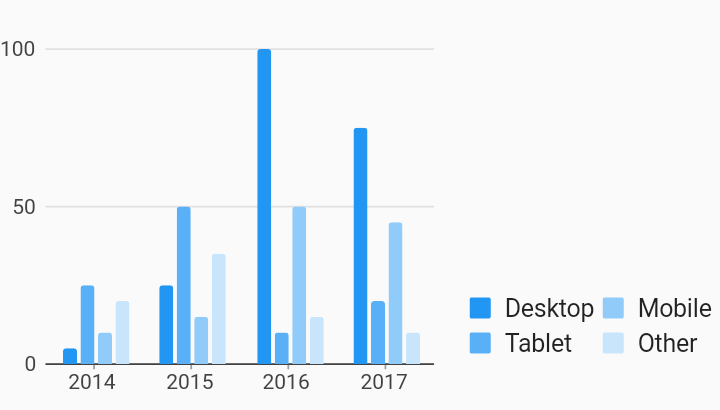
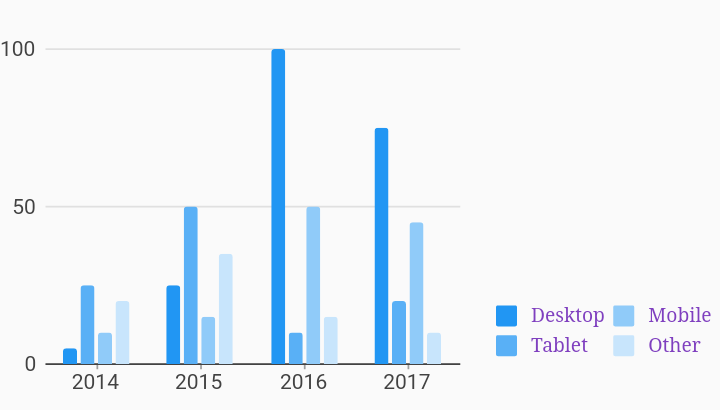
Add support for configurable legend entry text styles. Inspired by https://github.com/google/charts/pull/126
PiperOrigin-RevId: 216402421

Changed region(s): [[0.2139, 0.1171, 0.6417, 0.9659], [0.6417, 0.7024, 1.0, 0.878], [0.0917, 0.9073, 0.1833, 0.9659]]

diff --git a/charts_flutter/lib/src/behaviors/legend/series_legend.dart b/charts_flutter/lib/src/behaviors/legend/series_legend.dart
@@ -23,7 +23,8 @@ import 'package:charts_common/common.dart' as common
         LegendDefaultMeasure,
         OutsideJustification,
         SeriesLegend,
-        SelectionModelType;
+        SelectionModelType,
+        TextStyleSpec;
 import 'package:collection/collection.dart' show ListEquality;
 import 'package:flutter/widgets.dart'
     show BuildContext, EdgeInsets, Widget, hashValues;
@@ -82,6 +83,9 @@ class SeriesLegend extends ChartBehavior<common.SeriesLegend> {
   /// legend and the series uses the secondary axis.
   final common.MeasureFormatter secondaryMeasureFormatter;
 
+  /// Styles for legend entry label text.
+  final common.TextStyleSpec entryTextStyle;
+
   static const defaultCellPadding = const EdgeInsets.all(8.0);
 
   final List<String> defaultHiddenSeries;
@@ -139,6 +143,7 @@ class SeriesLegend extends ChartBehavior<common.SeriesLegend> {
     common.LegendDefaultMeasure legendDefaultMeasure,
     common.MeasureFormatter measureFormatter,
     common.MeasureFormatter secondaryMeasureFormatter,
+    common.TextStyleSpec entryTextStyle,
   }) {
     // Set defaults if empty.
     position ??= defaultBehaviorPosition;
@@ -169,7 +174,8 @@ class SeriesLegend extends ChartBehavior<common.SeriesLegend> {
         legendDefaultMeasure:
             legendDefaultMeasure ?? common.LegendDefaultMeasure.none,
         measureFormatter: measureFormatter,
-        secondaryMeasureFormatter: secondaryMeasureFormatter);
+        secondaryMeasureFormatter: secondaryMeasureFormatter,
+        entryTextStyle: entryTextStyle);
   }
 
   /// Create a legend with custom layout.
@@ -212,6 +218,7 @@ class SeriesLegend extends ChartBehavior<common.SeriesLegend> {
     common.LegendDefaultMeasure legendDefaultMeasure,
     common.MeasureFormatter measureFormatter,
     common.MeasureFormatter secondaryMeasureFormatter,
+    common.TextStyleSpec entryTextStyle,
   }) {
     // Set defaults if empty.
     position ??= defaultBehaviorPosition;
@@ -230,6 +237,7 @@ class SeriesLegend extends ChartBehavior<common.SeriesLegend> {
           legendDefaultMeasure ?? common.LegendDefaultMeasure.none,
       measureFormatter: measureFormatter,
       secondaryMeasureFormatter: secondaryMeasureFormatter,
+      entryTextStyle: entryTextStyle,
     );
   }
 
@@ -244,6 +252,7 @@ class SeriesLegend extends ChartBehavior<common.SeriesLegend> {
     this.legendDefaultMeasure,
     this.measureFormatter,
     this.secondaryMeasureFormatter,
+    this.entryTextStyle,
   });
 
   @override
@@ -270,7 +279,8 @@ class SeriesLegend extends ChartBehavior<common.SeriesLegend> {
         showMeasures == o.showMeasures &&
         legendDefaultMeasure == o.legendDefaultMeasure &&
         measureFormatter == o.measureFormatter &&
-        secondaryMeasureFormatter == o.secondaryMeasureFormatter;
+        secondaryMeasureFormatter == o.secondaryMeasureFormatter &&
+        entryTextStyle == o.entryTextStyle;
   }
 
   @override
@@ -285,7 +295,8 @@ class SeriesLegend extends ChartBehavior<common.SeriesLegend> {
         showMeasures,
         legendDefaultMeasure,
         measureFormatter,
-        secondaryMeasureFormatter);
+        secondaryMeasureFormatter,
+        entryTextStyle);
   }
 }
 
@@ -302,6 +313,7 @@ class _FlutterSeriesLegend<D> extends common.SeriesLegend<D>
           legendDefaultMeasure: config.legendDefaultMeasure,
         ) {
     super.defaultHiddenSeries = config.defaultHiddenSeries;
+    super.entryTextStyle = config.entryTextStyle;
   }
 
   @override

diff --git a/charts_flutter/lib/src/behaviors/legend/legend_entry_layout.dart b/charts_flutter/lib/src/behaviors/legend/legend_entry_layout.dart
@@ -14,6 +14,7 @@
 // limitations under the License.
 
 import 'package:charts_common/common.dart' as common;
+import 'package:charts_flutter/src/util/color.dart';
 import 'package:flutter/widgets.dart';
 import 'package:flutter/material.dart'
     show GestureDetector, GestureTapUpCallback, TapUpDetails, Theme;
@@ -42,8 +43,7 @@ class SimpleLegendEntryLayout implements LegendEntryLayout {
     final materialSymbolSize = new Size(12.0, 12.0);
 
     final entryColor = legendEntry.color;
-    var color = new Color.fromARGB(
-        entryColor.a, entryColor.r, entryColor.g, entryColor.b);
+    var color = ColorUtil.toDartColor(entryColor);
 
     // Get the SymbolRendererBuilder wrapping a common.SymbolRenderer if needed.
     final SymbolRendererBuilder symbolRendererBuilder =
@@ -63,7 +63,8 @@ class SimpleLegendEntryLayout implements LegendEntryLayout {
 
   Widget createLabel(BuildContext context, common.LegendEntry legendEntry,
       TappableLegend legend, bool isHidden) {
-    final TextStyle style = isHidden ? _getHiddenTextStyle(context) : null;
+    TextStyle style =
+        _convertTextStyle(isHidden, context, legendEntry.textStyle);
 
     return new GestureDetector(
         child: new Text(legendEntry.label, style: style),
@@ -117,14 +118,27 @@ class SimpleLegendEntryLayout implements LegendEntryLayout {
     return this.runtimeType.hashCode;
   }
 
-  /// Get style that is 26% opaque if the entry is hidden.
+  /// Convert the charts common TextStlyeSpec into a standard TextStyle, while
+  /// reducing the color opacity to 26% if the entry is hidden.
   ///
-  /// Use the color from the body 1 theme, but create a new style that only
-  /// specifies a color. This should keep anything else that this [Text] is
-  /// inheriting intact.
-  TextStyle _getHiddenTextStyle(BuildContext context) {
-    final body1 = Theme.of(context).textTheme.body1;
-    final color = body1.color.withOpacity(0.26);
-    return new TextStyle(inherit: true, color: color);
+  /// For non-specified values, override the hidden text color to use the body 1
+  /// theme, but allow other properties of [Text] to be inherited.
+  TextStyle _convertTextStyle(
+      bool isHidden, BuildContext context, common.TextStyleSpec textStyle) {
+    Color color = textStyle?.color != null
+        ? ColorUtil.toDartColor(textStyle.color)
+        : null;
+    if (isHidden) {
+      // Use a default color for hidden legend entries if none is provided.
+      color ??= Theme.of(context).textTheme.body1.color;
+      color = color.withOpacity(0.26);
+    }
+
+    return new TextStyle(
+        inherit: true,
+        fontFamily: textStyle?.fontFamily,
+        fontSize:
+            textStyle?.fontSize != null ? textStyle.fontSize.toDouble() : null,
+        color: color);
   }
 }

diff --git a/charts_common/lib/src/chart/common/behavior/legend/per_series_legend_entry_generator.dart b/charts_common/lib/src/chart/common/behavior/legend/per_series_legend_entry_generator.dart
@@ -18,6 +18,7 @@ import 'legend_entry.dart';
 import 'legend_entry_generator.dart';
 import '../../selection_model/selection_model.dart';
 import '../../../cartesian/axis/axis.dart' show Axis, measureAxisIdKey;
+import '../../../cartesian/axis/spec/axis_spec.dart' show TextStyleSpec;
 import '../../datum_details.dart' show MeasureFormatter;
 import '../../processed_series.dart' show MutableSeries;
 import '../../series_datum.dart' show SeriesDatum;
@@ -27,6 +28,7 @@ import '../../series_datum.dart' show SeriesDatum;
 /// [T] the datum class type for chart.
 /// [D] the domain class type for the datum.
 class PerSeriesLegendEntryGenerator<D> implements LegendEntryGenerator<D> {
+  TextStyleSpec entryTextStyle;
   MeasureFormatter measureFormatter;
   MeasureFormatter secondaryMeasureFormatter;
 
@@ -37,7 +39,7 @@ class PerSeriesLegendEntryGenerator<D> implements LegendEntryGenerator<D> {
   List<LegendEntry<D>> getLegendEntries(List<MutableSeries<D>> seriesList) {
     final legendEntries = seriesList
         .map((series) => new LegendEntry<D>(series, series.displayName,
-            color: series.colorFn(0)))
+            color: series.colorFn(0), textStyle: entryTextStyle))
         .toList();
 
     // Update with measures only if showing measure on no selection.
@@ -173,7 +175,8 @@ class PerSeriesLegendEntryGenerator<D> implements LegendEntryGenerator<D> {
     return o is PerSeriesLegendEntryGenerator &&
         measureFormatter == o.measureFormatter &&
         secondaryMeasureFormatter == o.secondaryMeasureFormatter &&
-        legendDefaultMeasure == o.legendDefaultMeasure;
+        legendDefaultMeasure == o.legendDefaultMeasure &&
+        entryTextStyle == o.entryTextStyle;
   }
 
   @override
@@ -181,6 +184,7 @@ class PerSeriesLegendEntryGenerator<D> implements LegendEntryGenerator<D> {
     int hashcode = measureFormatter?.hashCode ?? 0;
     hashcode = (hashcode * 37) + secondaryMeasureFormatter.hashCode;
     hashcode = (hashcode * 37) + legendDefaultMeasure.hashCode;
+    hashcode = (hashcode * 37) + entryTextStyle.hashCode;
     return hashcode;
   }
 }

diff --git a/charts_common/lib/src/chart/common/behavior/legend/legend.dart b/charts_common/lib/src/chart/common/behavior/legend/legend.dart
@@ -70,7 +70,6 @@ abstract class Legend<D> implements ChartBehavior<D>, LayoutView {
   LegendCellPadding _cellPadding;
   LegendCellPadding _legendPadding;
 
-  TextStyleSpec _entryTextStyle;
   TextStyleSpec _titleTextStyle;
 
   LegendTapHandling _legendTapHandling = LegendTapHandling.hide;
@@ -85,9 +84,10 @@ abstract class Legend<D> implements ChartBehavior<D>, LayoutView {
     return (value == null) ? '' : _decimalPattern.format(value);
   }
 
-  Legend({this.selectionModelType, this.legendEntryGenerator}) {
+  Legend({this.selectionModelType, this.legendEntryGenerator, entryTextStyle}) {
     _lifecycleListener = new LifecycleListener(
         onPostprocess: _postProcess, onPreprocess: _preProcess, onData: onData);
+    legendEntryGenerator.entryTextStyle = entryTextStyle;
   }
 
   String get title => _title;
@@ -130,10 +130,10 @@ abstract class Legend<D> implements ChartBehavior<D>, LayoutView {
   LegendTapHandling get legendTapHandling => _legendTapHandling;
 
   /// Text style of the legend entry text.
-  TextStyleSpec get entryTextStyle => _entryTextStyle;
+  TextStyleSpec get entryTextStyle => legendEntryGenerator.entryTextStyle;
 
   set entryTextStyle(TextStyleSpec entryTextStyle) {
-    _entryTextStyle = entryTextStyle;
+    legendEntryGenerator.entryTextStyle = entryTextStyle;
   }
 
   /// Text style of the legend title text.

diff --git a/charts_flutter/example/lib/legends/legend_options.dart b/charts_flutter/example/lib/legends/legend_options.dart
@@ -14,10 +14,10 @@
 // limitations under the License.
 
 /// Bar chart with example of a legend with customized position, justification,
-/// desired max rows, and padding. These options are shown as an example of how
-/// to use the customizations, they do not necessary have to be used together in
-/// this way. Choosing [end] as the position does not require the justification
-/// to also be [endDrawArea].
+/// desired max rows, padding, and entry text styles. These options are shown as
+/// an example of how to use the customizations, they do not necessary have to
+/// be used together in this way. Choosing [end] as the position does not
+/// require the justification to also be [endDrawArea].
 // EXCLUDE_FROM_GALLERY_DOCS_START
 import 'dart:math';
 // EXCLUDE_FROM_GALLERY_DOCS_END
@@ -137,6 +137,11 @@ class LegendOptions extends StatelessWidget {
           desiredMaxRows: 2,
           // This defines the padding around each legend entry.
           cellPadding: new EdgeInsets.only(right: 4.0, bottom: 4.0),
+          // Render the legend entry text with custom styles.
+          entryTextStyle: charts.TextStyleSpec(
+              color: charts.MaterialPalette.purple.shadeDefault,
+              fontFamily: 'Georgia',
+              fontSize: 11),
         )
       ],
     );

diff --git a/charts_common/lib/src/chart/common/behavior/legend/series_legend.dart b/charts_common/lib/src/chart/common/behavior/legend/series_legend.dart
@@ -15,6 +15,7 @@
 
 import 'package:meta/meta.dart' show protected;
 
+import '../../../cartesian/axis/spec/axis_spec.dart' show TextStyleSpec;
 import '../../datum_details.dart' show MeasureFormatter;
 import '../../processed_series.dart' show MutableSeries;
 import '../../selection_model/selection_model.dart' show SelectionModelType;
@@ -45,11 +46,12 @@ class SeriesLegend<D> extends Legend<D> {
     MeasureFormatter secondaryMeasureFormatter,
     bool showMeasures,
     LegendDefaultMeasure legendDefaultMeasure,
+    TextStyleSpec entryTextStyle,
   }) : super(
-          selectionModelType: selectionModelType ?? SelectionModelType.info,
-          legendEntryGenerator:
-              legendEntryGenerator ?? new PerSeriesLegendEntryGenerator(),
-        ) {
+            selectionModelType: selectionModelType ?? SelectionModelType.info,
+            legendEntryGenerator:
+                legendEntryGenerator ?? new PerSeriesLegendEntryGenerator(),
+            entryTextStyle: entryTextStyle) {
     // Call the setters that include the setting for default.
     this.showMeasures = showMeasures;
     this.legendDefaultMeasure = legendDefaultMeasure;

diff --git a/charts_flutter/lib/src/util/color.dart b/charts_flutter/lib/src/util/color.dart
@@ -1,0 +1,28 @@
+// Copyright 2018 the Charts project authors. Please see the AUTHORS file
+// for details.
+//
+// Licensed under the Apache License, Version 2.0 (the "License");
+// you may not use this file except in compliance with the License.
+// You may obtain a copy of the License at
+//
+// http://www.apache.org/licenses/LICENSE-2.0
+//
+// Unless required by applicable law or agreed to in writing, software
+// distributed under the License is distributed on an "AS IS" BASIS,
+// WITHOUT WARRANTIES OR CONDITIONS OF ANY KIND, either express or implied.
+// See the License for the specific language governing permissions and
+// limitations under the License.
+
+import 'package:charts_common/common.dart' as common show Color;
+import 'dart:ui' as ui;
+
+class ColorUtil {
+  static ui.Color toDartColor(common.Color color) {
+    return ui.Color.fromARGB(color.a, color.r, color.g, color.b);
+  }
+
+  static common.Color fromDartColor(ui.Color color) {
+    return common.Color(
+        r: color.red, g: color.green, b: color.blue, a: color.alpha);
+  }
+}

diff --git a/charts_common/lib/src/chart/common/behavior/legend/legend_entry.dart b/charts_common/lib/src/chart/common/behavior/legend/legend_entry.dart
@@ -15,6 +15,7 @@
 
 import '../../../../common/color.dart';
 import '../../../../common/symbol_renderer.dart';
+import '../../../cartesian/axis/spec/axis_spec.dart' show TextStyleSpec;
 import '../../series_renderer.dart' show rendererKey;
 import '../../processed_series.dart' show ImmutableSeries;
 
@@ -29,6 +30,7 @@ class LegendEntry<D> {
   final int datumIndex;
   final D domain;
   final Color color;
+  final TextStyleSpec textStyle;
   double value;
   String formattedValue;
   bool isSelected;
@@ -66,6 +68,7 @@ class LegendEntry<D> {
       this.domain,
       this.value,
       this.color,
+      this.textStyle,
       this.isSelected = false,
       this.rowNumber,
       this.columnNumber,

diff --git a/charts_common/lib/src/chart/common/behavior/legend/legend_entry_generator.dart b/charts_common/lib/src/chart/common/behavior/legend/legend_entry_generator.dart
@@ -14,6 +14,7 @@
 // limitations under the License.
 
 import 'legend_entry.dart';
+import '../../../cartesian/axis/spec/axis_spec.dart' show TextStyleSpec;
 import '../../selection_model/selection_model.dart';
 import '../../datum_details.dart' show MeasureFormatter;
 import '../../processed_series.dart' show MutableSeries;
@@ -44,6 +45,9 @@ abstract class LegendEntryGenerator<D> {
 
   LegendDefaultMeasure get legendDefaultMeasure;
   set legendDefaultMeasure(LegendDefaultMeasure noSelectionMeasure);
+
+  TextStyleSpec get entryTextStyle;
+  set entryTextStyle(TextStyleSpec entryTextStyle);
 }
 
 /// Options for calculating what measures are shown when there is no selection.

diff --git a/charts_flutter/lib/flutter.dart b/charts_flutter/lib/flutter.dart
@@ -187,3 +187,4 @@ export 'src/symbol_renderer.dart' show CustomSymbolRenderer;
 export 'src/time_series_chart.dart';
 export 'src/user_managed_state.dart'
     show UserManagedState, UserManagedSelectionModel;
+export 'src/util/color.dart' show ColorUtil;

diff --git a/docs/flutter/example/legends/legend_options.md b/docs/flutter/example/legends/legend_options.md
@@ -6,10 +6,10 @@ Example:
 
 ```
 /// Bar chart with example of a legend with customized position, justification,
-/// desired max rows, and padding. These options are shown as an example of how
-/// to use the customizations, they do not necessary have to be used together in
-/// this way. Choosing [end] as the position does not require the justification
-/// to also be [endDrawArea].
+/// desired max rows, padding, and entry text styles. These options are shown as
+/// an example of how to use the customizations, they do not necessary have to
+/// be used together in this way. Choosing [end] as the position does not
+/// require the justification to also be [endDrawArea].
 import 'package:flutter/material.dart';
 import 'package:charts_flutter/flutter.dart' as charts;
 
@@ -58,6 +58,11 @@ class LegendOptions extends StatelessWidget {
           desiredMaxRows: 2,
           // This defines the padding around each legend entry.
           cellPadding: new EdgeInsets.only(right: 4.0, bottom: 4.0),
+          // Render the legend entry text with custom styles.
+          entryTextStyle: charts.TextStyleSpec(
+              color: charts.Color(r: 127, g: 63, b: 191),
+              fontFamily: 'Georgia',
+              fontSize: 11),
         )
       ],
     );
